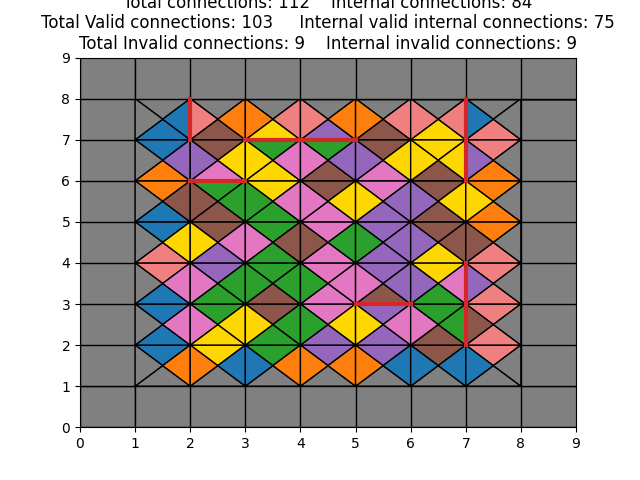
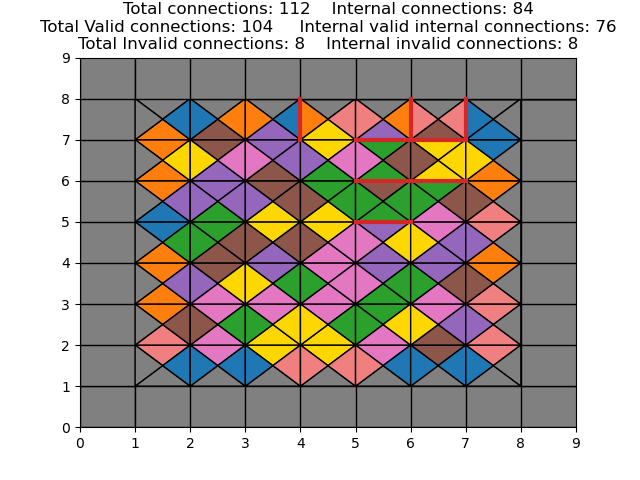
LNS début
un peu cool + correction heuristique

diff --git a/solver_lns.py b/solver_lns.py
@@ -1,0 +1,221 @@
+import copy
+import numpy as np
+import random
+from time import time
+from collections import deque
+from solver_heuristic import solve_heuristic
+from tqdm import tqdm
+from os import path
+
+GRIS = 0
+
+random.seed(2306632)
+
+dict_board_size_instance = {
+    4 : 'A',
+    7 : 'B',
+    8 : 'C',
+    9 : 'D',
+    10 : 'E',
+    16 : 'complet'
+}
+def log_execution(instance, score, execution_time):
+    # Format log message
+    log_message = f"Instance: {instance}, Score: {score}, Execution Time: {execution_time:.4f} seconds\n"
+    
+    # Write log message to file
+    with open(path.join("log", "log_local_search.txt"), "a") as log_file:
+        log_file.write(log_message)
+
+NORD = 0
+SUD = 1
+OUEST = 2
+EST = 3
+
+
+def destroy(solution, degree: float):
+    """
+    Destruction d'une solution
+
+    Args:
+        solution
+        degree (float) : poucentage de pièces à retirer
+
+    Returns:
+    """
+    destroyed_sol = solution.copy()
+
+    n_tiles = np.product(solution.shape[:2])
+
+    indexes = np.unravel_index(np.random.choice(n_tiles, size = int(degree*n_tiles), replace=False),
+                                                solution.shape[:2])
+
+    removed_elements = destroyed_sol[indexes]
+    destroyed_sol[indexes] = -1
+
+    return destroyed_sol, removed_elements
+
+
+def greedy_replace(solution, tile, coords):
+    """
+    Remet la tuile tile dans la solution aux coordonnées coordinates, dans l'orientation minimisant le mieux les conflits.
+    """
+    board_size = solution.shape[0]
+
+    initial_shape = tile
+    rotation_90 = (tile[2], tile[3], tile[1], tile[0])
+    rotation_180 = (tile[1], tile[0], tile[3], tile[2])
+    rotation_270 = (tile[3], tile[2], tile[0], tile[1])
+
+    orientations = [initial_shape, rotation_90, rotation_180, rotation_270]
+
+    conflicts = []
+    for orient in orientations:
+        conflicts.append(0)
+
+        if coords[0] == 0:
+            # Ligne du haut : on veut que l'élément haut soit gris
+            conflicts[-1] += 2*int(orient[0] != 0)
+        else:
+            conflicts[-1] += int(orient[0] != solution[coords[0]-1, coords[1], 1])
+
+        if coords[0] == board_size-1:
+            conflicts[-1] += 2*int(orient[1] != 0)
+        else:
+            conflicts[-1] += int(orient[1] != solution[coords[0]+1, coords[1], 0])
+        
+        if coords[1] == 0:
+            conflicts[-1] += 2*int(orient[2] != 0)
+        else:
+            conflicts[-1] += int(orient[2] != solution[coords[0], coords[1]-1, 3])
+
+        if coords[1] == board_size-1:
+            conflicts[-1] += 2*int(orient[3] != 0)
+        else:
+            conflicts[-1] += int(orient[3] != solution[coords[0], coords[1]+1, 2])
+    
+    return orientations[np.argmin(conflicts)]
+
+
+def reconstruct(solution, removed_elements):
+    """
+    D
+
+    Args:
+
+    Returns:
+    """
+    board_size = solution.shape[0]
+
+    reconstructed_sol = solution.copy()
+    to_reassign = np.where(reconstructed_sol[:, :, 0] == -1)
+    nonzero_per_removed_tile = np.count_nonzero(removed_elements, axis=1)
+
+    # print(solution)
+    # print(to_reassign)
+    # print(nonzero_per_removed_tile)
+
+    for e in np.transpose(to_reassign):
+        # print(e, nonzero_per_removed_tile)
+        if (np.allclose(e, np.array([0, 0])) or
+            np.allclose(e, np.array([0, board_size-1])) or
+            np.allclose(e, np.array([board_size-1, 0])) or
+            np.allclose(e, np.array([board_size-1, board_size-1]))):
+            # Dans un coin
+            # print('coin')
+            i = np.random.choice(np.where(nonzero_per_removed_tile == 2)[0])
+
+        elif (e[0] == 0 or 
+              e[0] == board_size-1 or
+              e[1] == 0 or
+              e[1] == board_size-1):
+            # Sur un bord
+            # print('bord')
+            i = np.random.choice(np.where(nonzero_per_removed_tile == 3)[0])
+
+        else:
+            # milieu
+            # print('milieu')
+            i = np.random.choice(np.where(nonzero_per_removed_tile == 4)[0])
+
+        reconstructed_sol[e[0], e[1]] = greedy_replace(reconstructed_sol, removed_elements[i], e) 
+
+        nonzero_per_removed_tile = np.delete(nonzero_per_removed_tile, i, 0)
+        removed_elements = np.delete(removed_elements, i, 0)
+
+    return reconstructed_sol
+
+
+
+def evaluate(puzzle, solution):
+    """
+    E
+    """
+    return puzzle.get_total_n_conflict(
+        np.reshape(np.flip(solution, axis=0), newshape=(-1, 4))
+    )
+
+
+def solve_advanced(eternity_puzzle):
+    """
+    Local search solution of the problem
+    :param eternity_puzzle: object describing the input
+    :return: a tuple (solution, cost) where solution is a list of the pieces (rotations applied) and
+        cost is the cost of the solution
+    """
+    n = eternity_puzzle.board_size
+
+    puzzle = copy.deepcopy(eternity_puzzle)
+    best_solution, best_n_conflict = solve_heuristic(puzzle)
+
+    # Métriques de temps d'exécution
+    t0 = time()
+    iteration_duration = 0
+
+    time_credit = 300
+
+    # Recherche
+    while ((time()-t0) + iteration_duration) < time_credit - 5:
+        # Temps de début du restart
+        t1 = time()
+
+        puzzle = copy.deepcopy(eternity_puzzle)
+        #restart aléatoire depuis la solution initiale
+        random.shuffle(puzzle.piece_list)
+
+        current_solution, current_n_conflict = solve_heuristic(puzzle)
+        current_solution = np.flip(np.array(current_solution).reshape((n, n, 4)), 0)
+        best_solution_restart, best_n_conflict_restart = current_solution, current_n_conflict
+
+        temp = 10
+     
+        for i in range(500):
+            solution = reconstruct(*destroy(current_solution, 0.2))
+
+            # Acceptation éventuelle de la solution reconstruite
+            n_conflict = evaluate(puzzle, solution)
+            delta = n_conflict - current_n_conflict
+
+            if delta <= 0:# or np.random.rand() < np.exp(-delta/temp):
+                current_solution, current_n_conflict = solution, n_conflict
+
+            if current_n_conflict < best_n_conflict_restart:
+                best_solution_restart, best_n_conflict_restart = current_solution, current_n_conflict
+            
+            temp *= 0.99
+
+        if best_n_conflict_restart < best_n_conflict:
+            best_n_conflict  = best_n_conflict_restart
+            best_solution = best_solution_restart
+            print(best_n_conflict)
+        
+        iteration_duration = time() - t1
+
+    #log_execution(dict_board_size_instance[eternity_puzzle.board_size], best_n_conflict, time()-t0)
+
+    # Mise en forme pour la visualisation
+    best_solution = [
+        tuple(e) for e in np.reshape(np.flip(best_solution, axis=0), newshape=(-1, 4))
+    ]
+
+    return  best_solution, best_n_conflict

diff --git a/solver_heuristic.py b/solver_heuristic.py
@@ -80,8 +80,13 @@ def choix_piece(i,j,solution,pieces,puzzle:EternityPuzzle):
     k_nord = board_size * (i + 1) + j
 
     # On verifie si on doit renvoyer une piece du bord
-    if i == 0 or j==0 or i == board_size-1 or j == board_size -1:
-        pieces_possibles = [piece for piece in pieces if GRIS in piece]
+    conditions_bord = int(i == 0) + int(j==0) + int(i == board_size-1) + int(j == board_size -1)
+    
+    if conditions_bord == 2:
+        pieces_possibles = [piece for piece in pieces if GRIS in piece and np.count_nonzero(piece) == 2]
+        
+    elif conditions_bord == 1:
+        pieces_possibles = [piece for piece in pieces if GRIS in piece and np.count_nonzero(piece) == 3]
 
     else :
         pieces_possibles = [piece for piece in pieces if not GRIS in piece]

diff --git a/main.py b/main.py
@@ -4,6 +4,7 @@ import eternity_puzzle
 import solver_random
 import solver_heuristic
 import solver_local_search
+import solver_lns
 import solver_advanced
 
 
@@ -48,7 +49,7 @@ if __name__ == '__main__':
         solution, n_conflict = solver_local_search.solve_local_search(e)
     elif args.agent == "advanced":
         # Your nice agent (Phase 3 - main part of the project)
-        solution, n_conflict = solver_advanced.solve_advanced(e)
+        solution, n_conflict = solver_lns.solve_advanced(e)
     else:
         raise Exception("This agent does not exist")
     solving_time = round((time.time() - start_time) / 60,2)
